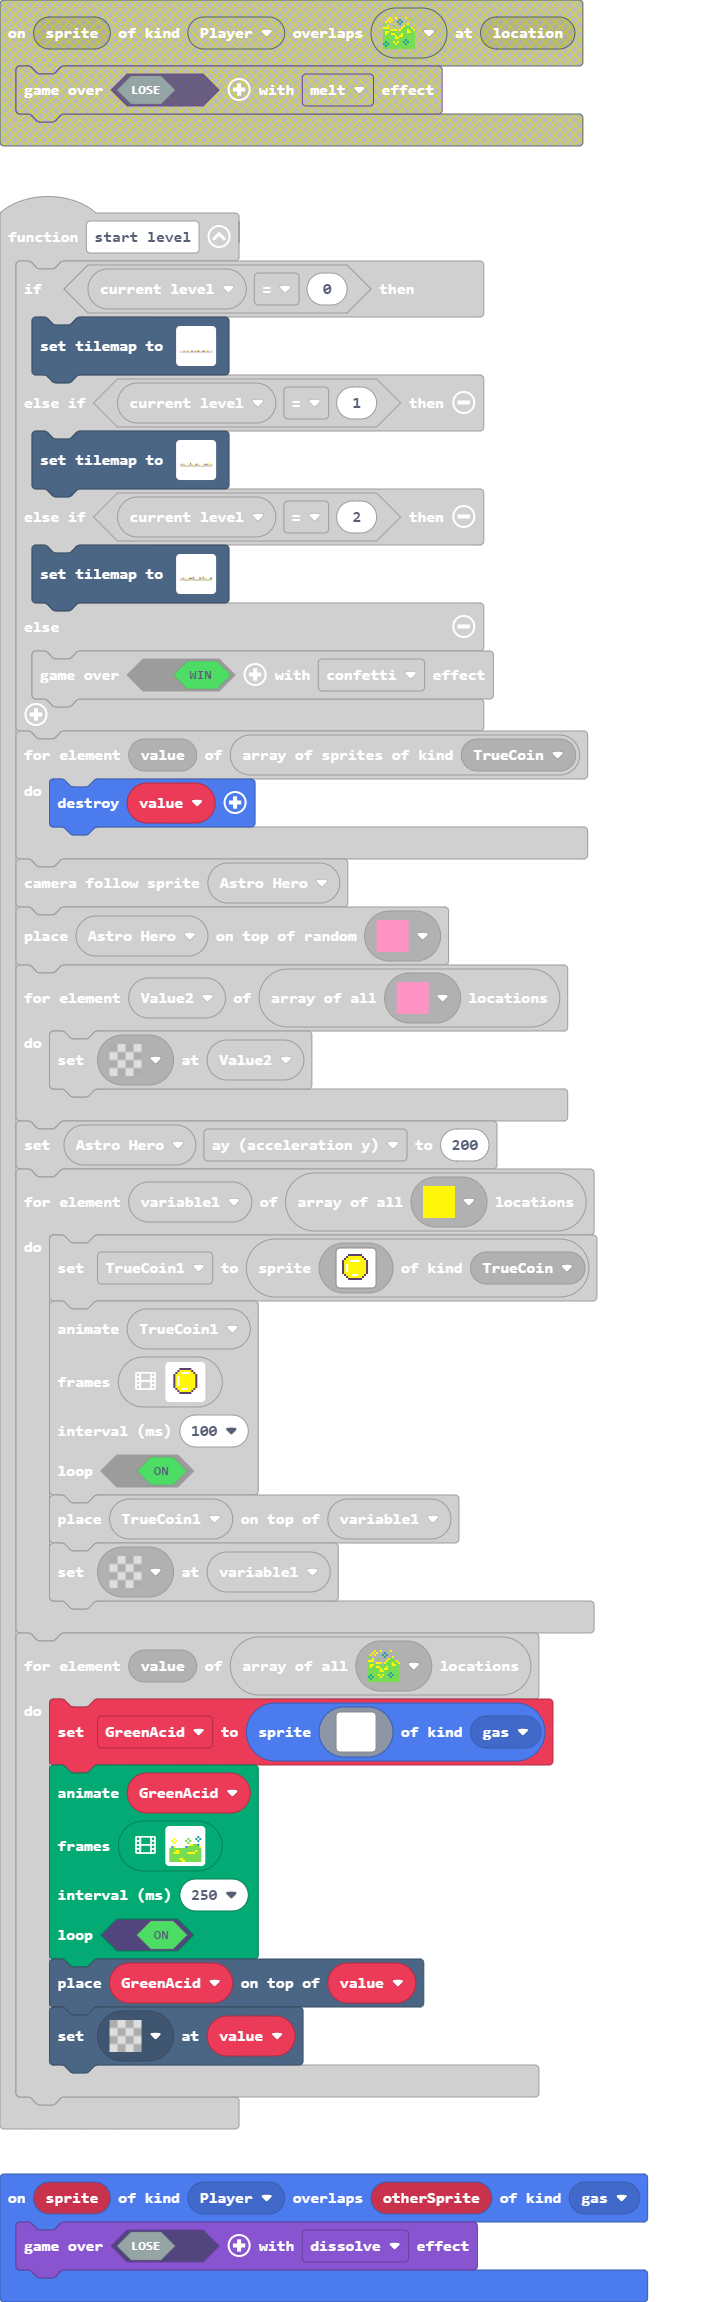
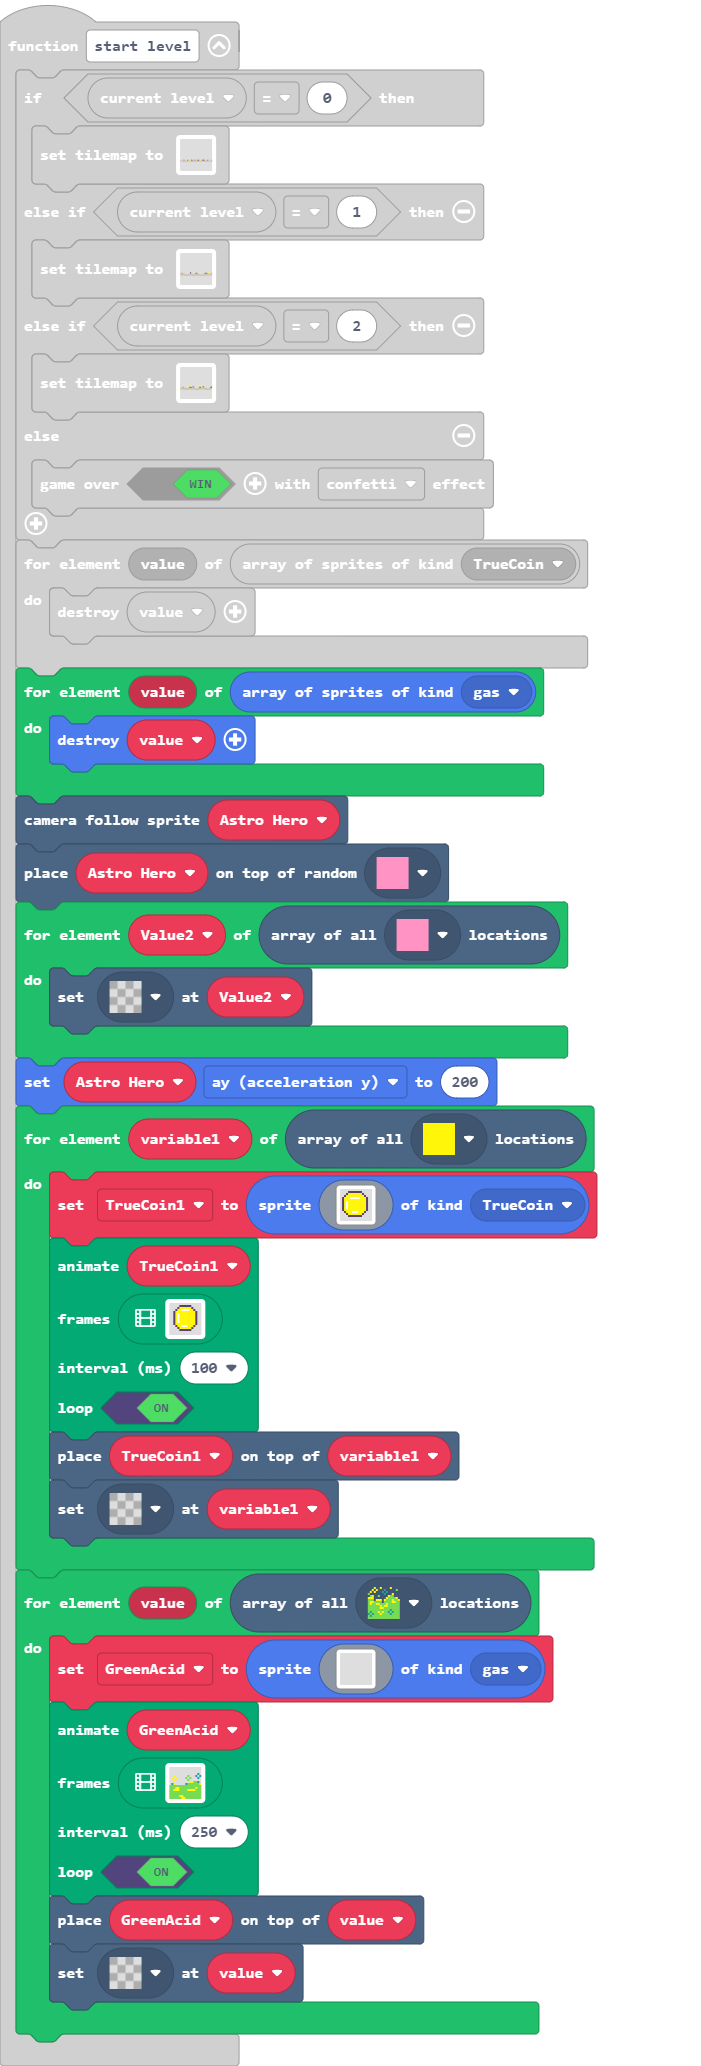
Update main.blocks, main.ts

diff --git a/main.ts b/main.ts
@@ -70,6 +70,9 @@ function start_level () {
     for (let value of sprites.allOfKind(SpriteKind.TrueCoin)) {
         value.destroy()
     }
+    for (let value of sprites.allOfKind(SpriteKind.gas)) {
+        value.destroy()
+    }
     scene.cameraFollowSprite(Astro_Hero)
     tiles.placeOnRandomTile(Astro_Hero, myTiles.tile9)
     for (let Value2 of tiles.getTilesByType(myTiles.tile9)) {
@@ -363,23 +366,6 @@ function start_level () {
             7 7 7 7 7 7 7 7 7 7 7 7 7 7 7 7 
             7 7 7 7 7 5 5 7 7 7 7 7 7 7 7 7 
             7 7 7 7 7 7 5 5 7 7 7 7 7 7 7 7 
-            `,img`
-            . . . . . . . . . . . . . . . . 
-            . . . . . . . . . . . . . . . . 
-            . . . . . . . . . . . . . . . . 
-            . . . . . . . . . . . . . . . . 
-            . . . . . . . . . . . . . . . . 
-            . . . . . . . . . . . . . . . . 
-            . . . . . . . . . . . . . . . . 
-            . . . . . . . . . . . . . . . . 
-            . . . . . . . . . . . . . . . . 
-            . . . . . . . . . . . . . . . . 
-            . . . . . . . . . . . . . . . . 
-            . . . . . . . . . . . . . . . . 
-            . . . . . . . . . . . . . . . . 
-            . . . . . . . . . . . . . . . . 
-            . . . . . . . . . . . . . . . . 
-            . . . . . . . . . . . . . . . . 
             `],
         250,
         true
